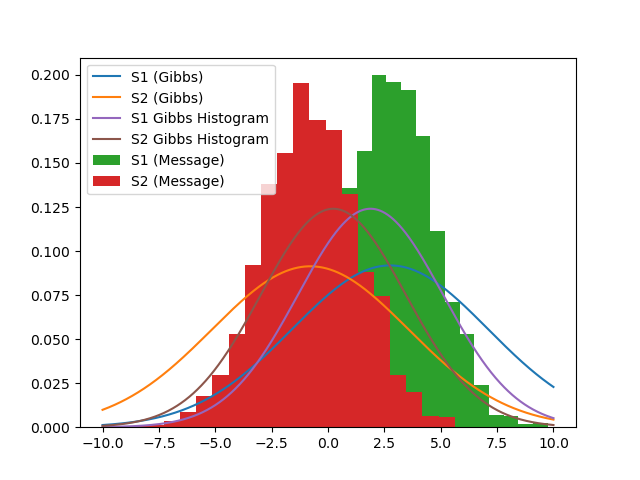
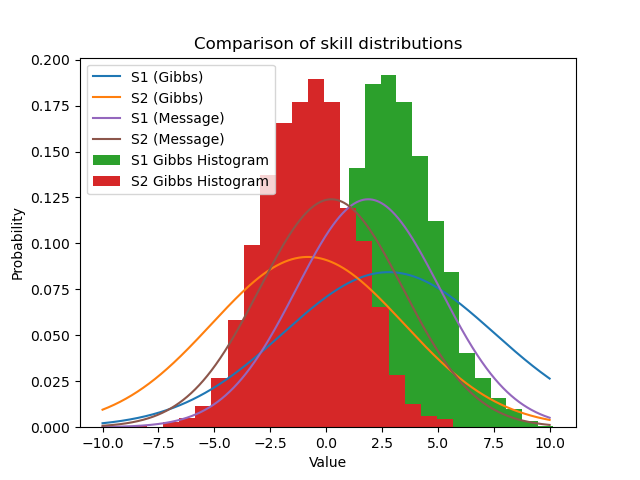
yuigiug

diff --git a/ExecTest/Q9.py b/ExecTest/Q9.py
@@ -4,15 +4,77 @@ from scipy.stats import truncnorm
 import matplotlib.pyplot as plt
 import scipy.stats as stats
 
+def s_to_t(s1, s2, std_t): #Function to get t|s1,s2,y with s1, s2 as given values
+    return truncnorm.rvs(0 - (s1-s2)/std_t, (np.inf - (s1-s2)/std_t), loc = (s1-s2), scale = std_t)
+
+def t_to_s(t, mu_s_vector, std_s_matrix, A, std_t): #Function to get s1,s2|t,y with t as a given value
+    std_s_matrix_old = std_s_matrix
+    std_s_matrix = np.linalg.inv(np.linalg.inv(std_s_matrix_old) + (A.reshape(-1, 1) * (1/std_t)) @ A)
+    mu_s_vector = std_s_matrix@(np.linalg.inv(std_s_matrix_old) @ mu_s_vector + A.reshape(-1, 1) * (1/std_t)*t)
+    mu_s_transpose = mu_s_vector.reshape(1, -1)[0]
+    return np.random.multivariate_normal(mu_s_transpose, std_s_matrix)
+
 def main():
     # initial
-    mean_1 = 0
-    var_1 = 0.7
-    mean_2 = 0
-    var_2 = 0.7
-    beta = 2
+    mean_1 = 1
+    var_1 = 4
+    mean_2 = 1
+    var_2 = 4
+    beta = 5
     y = 1
 
+    mu_s_vector = np.array([[mean_1], [mean_2]])
+    std_s_matrix = np.array([[var_1, 0], [0, var_2]])
+    A = np.array([[1, -1]]) # A-vector in the calculations
+
+    Iters = 2000 #iterations
+    ab = 30 # burnout period
+
+    All_S = np.zeros((Iters, 2)) #Containing drawn S values
+    All_t = np.zeros(Iters) #Containing drawn t values
+
+    # Matrices where the s1 and s2 random values are stored as well as the µ-values (in All_Mu_S)
+    All_S[0] = [np.random.normal(loc=mean_1, scale = var_1), np.random.normal(loc=mean_2, scale = var_2)]
+
+    # We calculate t, then s, and repeat for as many times as the iterations
+    for i in range(Iters-1):
+        All_t[i] = s_to_t(All_S[i,0], All_S[i,1], beta)
+        All_S[i+1] = t_to_s(All_t[i], mu_s_vector, std_s_matrix, A, beta)
+
+    # Result vectors, x stores iterations, y stores s1 and s2, w stores µ1 and µ2
+    x = [i for i in range(ab,Iters)]
+    y1 = [All_S[i][0] for i in range(ab,Iters)]
+    y2 = [All_S[i][1] for i in range(ab,Iters)]
+    #Finding mean
+    mu_S1 = np.mean(y1)
+    mu_S2 = np.mean(y2)
+
+    #Finding the Covariance matrix
+    co_11 = 0
+    co_121 = 0
+    co_22 = 0
+
+    for i in range(len(y1)):
+        co_11 += (y1[i]-mu_S1)**2
+        co_22 += (y2[i]-mu_S2)**2
+        co_121 += (y1[i]-mu_S1)*(y2[i]-mu_S2)
+
+    co_11 /= len(y1)-1
+    co_121 /= len(y1)-1
+    co_22 /= len(y2)-1
+    samples_drawn = Iters - ab
+
+    # Putting the results into a vector (µ) and a matrix (covariance)
+    mu_vector = np.array([mu_S1, mu_S2])
+    covariance_matrix = np.array([[co_11, co_121], [co_121, co_22]])
+    # Draws samples from the original µ values and covariance matrix, the draws values from the new M values and covariance matrix
+    All_samples_drawn = np.zeros((samples_drawn, 2))
+    for i in range(samples_drawn):
+        All_samples_drawn[i] = np.random.multivariate_normal(mu_vector, covariance_matrix)
+
+    #Results are split into new s1, s2 and starting value for s1, s2
+    newy1 = [All_samples_drawn[i][0] for i in range(samples_drawn)]
+    newy2 = [All_samples_drawn[i][1] for i in range(samples_drawn)]
 
     # fc to t
     mean_fct = mean_1 - mean_2 #(np.array([1, -1])@np.array([[mean_1], [mean_2]]))[0]
@@ -55,9 +117,17 @@ def main():
     # plot
 
     # posteriors
-    x = np.linspace(-5, 5, num=1000)
+    x = np.linspace(-10, 10, num=1000)
+    plt.plot(x, stats.norm.pdf(x, mu_S1, co_11))
+    plt.plot(x, stats.norm.pdf(x, mu_S2, co_22))
+    plt.hist(newy1, density=1, bins=20)
+    plt.hist(newy2, density=1, bins=20)
     plt.plot(x, stats.norm.pdf(x, mean_s1Iy, var_s1Iy))
     plt.plot(x, stats.norm.pdf(x, mean_s2Iy, var_s2Iy))
+    plt.legend(["S1 (Gibbs)", "S2 (Gibbs)", "S1 (Message)", "S2 (Message)","S1 Gibbs Histogram", "S2 Gibbs Histogram"])
+    plt.xlabel("Value")
+    plt.ylabel("Probability")
+    plt.title("Comparison of skill distributions")
     plt.show()
     
 
